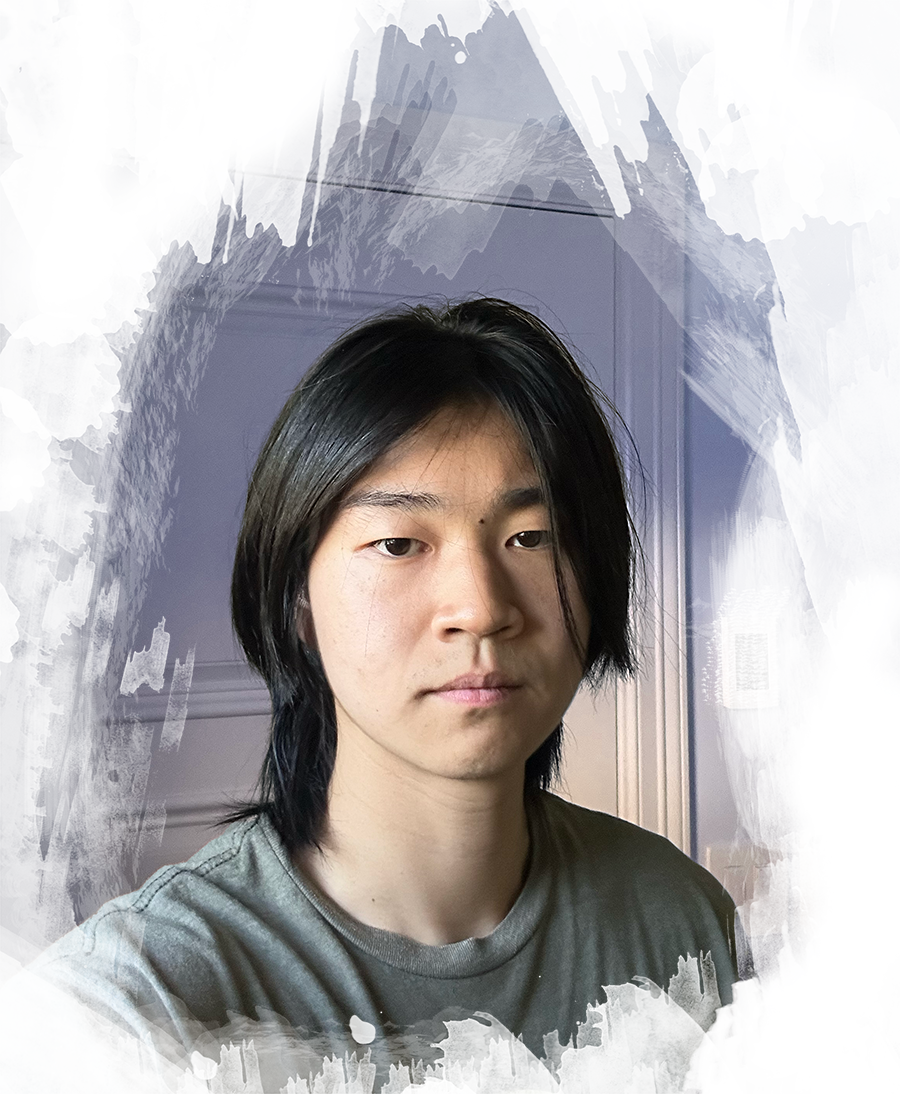
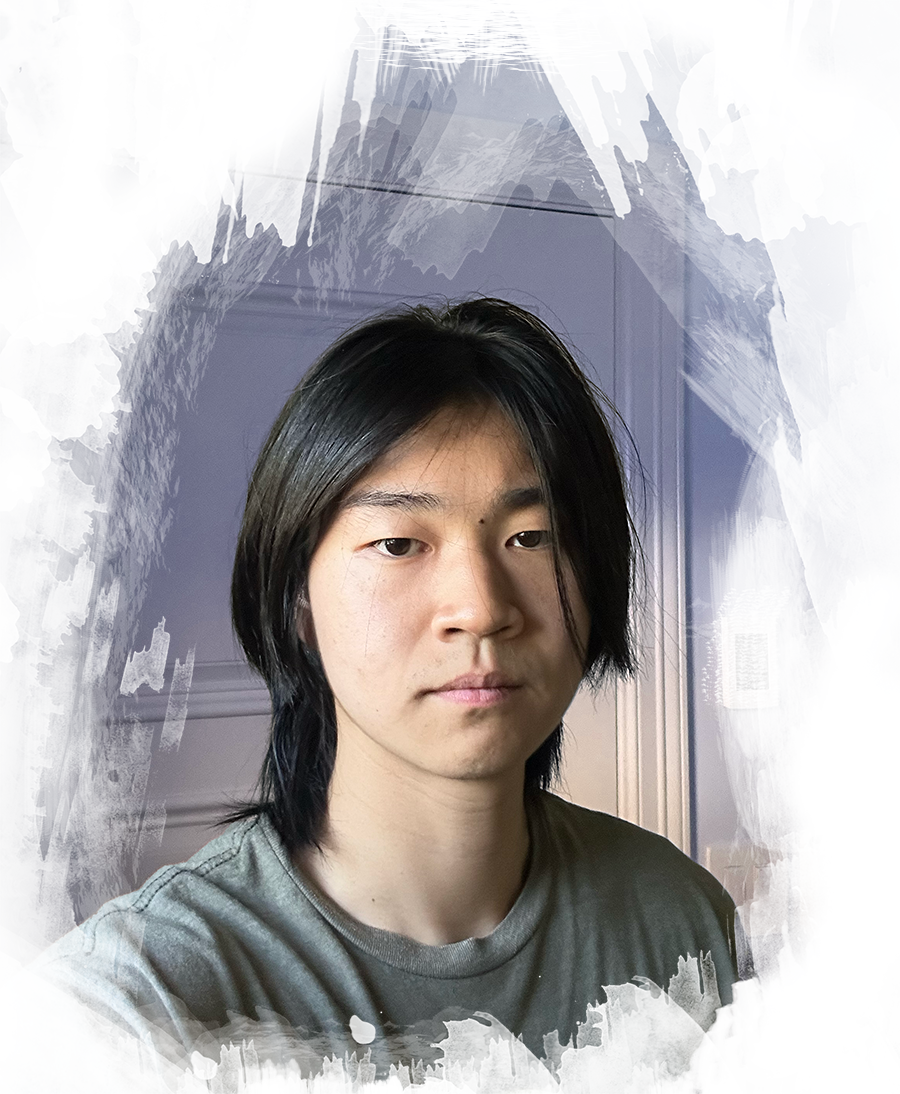
frame update

diff --git a/src/pages/FAQ.tsx b/src/pages/FAQ.tsx
@@ -4,17 +4,25 @@ const QA_ITEMS = [
     answer: 'Both EC ENGR C147a (Deep Learning) and its sequel, C147b (Deep Learning II). The hype is real, but good luck getting into it lol (SUBMIT AN ECR!!). COM SCI M146 is also solid. For a lesser known course, EC ENGR 133a (Applied Numerical Computing) with Vandenberghe is a cool, albeit tough mathy class. For this last one, it might just be me, but ART HIS 21 (Medieval Art) was more fun than expected.',
   },
   {
+    question: 'Coding Languages?',
+    answer: 'Python for most things, C++ for ICPC and technicals.',
+  },
+  {
     question: 'What do you draw with?',
     answer: 'Procreate to sketch and draw in mostly everything, and Photoshop for tuning colors and special effects. I do a lot of my practice with fineliners, a holdover from Drawabox.',
   },
   {
     question: 'Is anything AI generated?',
-    answer: 'If we\'re talking the stuff I drew, I have not used AI to create anything under Artworks. I also hand-made all the assets used on this website.',
+    answer: 'If we\'re talking the stuff I drew, I have not used AI to create anything under Artworks. I also hand-made all the assets used on this website in Illustrator.',
+  },
+  {
+    question: 'Why did you upload art pieces you\'re not proud of?',
+    answer: 'More than anything, to demonstrate that everybody misfires, and that it\'s not rare. It also shows my progression, which I\'m especially proud of. I wasn\'t born with any artistic talent (trust me), and even if I was, I couldn\'t have made my favorite pieces without the ones that I felt disappointed in.',
   }
   ,
   {
     question: 'Get a haircut.',
-    answer: 'Not a question. It happens when I feel like it.',
+    answer: 'Ok, not a question. It happens when I feel like it.',
   }
 ]
 
@@ -40,10 +48,10 @@ const pageStyle: React.CSSProperties = {
   width: '100%',
   height: '100%',
   display: 'flex',
-  alignItems: 'center',
+  alignItems: 'flex-start',
   justifyContent: 'center',
   overflow: 'auto',
-  padding: '48px 32px',
+  padding: '5vh 32px 48px',
 }
 
 const contentStyle: React.CSSProperties = {

diff --git a/src/pages/Digital.tsx b/src/pages/Digital.tsx
@@ -3,10 +3,11 @@ import ArtworkTimeline, { CreditHighlight as Hi, type TimelineEvent } from '../c
 const BASE = import.meta.env.BASE_URL
 const CREDITS = (
   <>
-    <Hi>Drawabox (https://drawabox.com):</Hi> Where I first learned to draw.{' '}
-    <Hi>Proko (www.proko.com):</Hi> Figure drawing and one-off tutorials and inspiration.{' '}
-    <Hi>Jeremy Fenske (https://www.artstation.com/jandrew):</Hi> Thanks for the brushes.{' '}
-    <Hi>FromSoftware (https://www.fromsoftware.jp):</Hi> One of my biggest sources of inspiration, and where some of my own characters originated. Finally, the friends I sent my drawings to.
+    <Hi>Drawabox (drawabox.com):</Hi> Where I first learned to draw.{' '}
+    <Hi>Proko (proko.com):</Hi> Figure drawing fundamentals, anatomy, and one-off tutorials.{' '}
+    <Hi>Jeremy Fenske (artstation.com/jandrew):</Hi> Thanks for the brushes good sir.{' '}
+    <Hi>FromSoftware (fromsoftware.jp):</Hi> One of my biggest sources of inspiration, and where some of my own characters originated.{' '}
+    <Hi>Lastly,</Hi> the friends I sent my drawings to.
   </>
 )
 
@@ -56,7 +57,7 @@ const EVENTS: TimelineEvent[] = [
     id: 'faithchar_color',
     date: 'February 2026',
     title: 'Faith',
-    description: 'Both this and the next drawing originated as custom characters from Elden Ring.',
+    description: '☆ First portrait that\'s not of myself.',
     imageSrc: `${BASE}images/digital/faithchar_color.webp`,
     imageAlt: 'Faith',
   },
@@ -106,7 +107,9 @@ const ASSETS = {
       src: `${BASE}images/common/frame.svg`,
       slice: 16,
       width: 16,
-      repeat: 'stretch' as const,
+      // 'repeat' tiles the edge art at native size instead of stretching it,
+      // so the accent lines keep their exact thickness on every piece.
+      repeat: 'repeat' as const,
     },
   },
 }

diff --git a/src/components/timeline/ArtworkTimeline.tsx b/src/components/timeline/ArtworkTimeline.tsx
@@ -28,11 +28,21 @@ export type TimelineBoxBorder = {
   slice: number | [number, number, number, number]
   /** On-screen thickness of the border. Defaults to `slice` (single-number form). */
   width?: number
-  /** How the straight edge slices fill the gap between corners. */
-  repeat?: 'stretch' | 'repeat' | 'round'
+  /**
+   * How the straight edge tile fills the gap between corners along its length
+   * (the cross-axis thickness is always fixed at `width`, never scaled):
+   *   - 'stretch': uniformly rescales the tile to fit — warps any pattern.
+   *   - 'repeat':  tiles the source at native size, clipping the last copy.
+   *   - 'round':   tiles at (near-)native size so a whole number always fits.
+   * Pass a tuple to control axes independently, per the CSS spec order:
+   * [top & bottom edges, left & right edges].
+   */
+  repeat?: BorderRepeatMode | [BorderRepeatMode, BorderRepeatMode]
   /** How far (px) the frame sits outside the image edge. Defaults to 0. */
   outset?: number
 }
+
+export type BorderRepeatMode = 'stretch' | 'repeat' | 'round'
 
 // Asset slots are grouped by type so each visual layer can be swapped for a
 // custom SVG later without touching layout logic. Any slot left undefined falls
@@ -646,7 +656,9 @@ const frameWrapStyle = (
       borderImageSource: `url(${border.src})`,
       borderImageSlice: sliceValue,
       borderImageWidth: `${width}px`,
-      borderImageRepeat: border.repeat ?? 'stretch',
+      borderImageRepeat: Array.isArray(border.repeat)
+        ? border.repeat.join(' ')
+        : border.repeat ?? 'stretch',
       borderImageOutset: `${(border.outset ?? 0) * scale}px`,
     }
   }

diff --git a/src/pages/Home.tsx b/src/pages/Home.tsx
@@ -66,10 +66,8 @@ export default function Home() {
   I'm currently a rising junior at UCLA studying Computer Science, with a focus on machine learning and NLP. I am also a Kleiner Perkins Engineering Fellow and an officer for ACM ICPC at UCLA.
   <br />
   <br />
-    Outside of my studies and coding up weird things (see Projects), I cook, gym, and draw. Do check out the Artwork page for my creations.
-    <br />
-    <br />
-    They also call me Jchen, JCProject, noobstin, a menace, and "dude this guy".
+    Outside of my studies, research projects, and hackathon things (see Projects), I cook, gym, and draw. Do stop by the Artwork page for my creations.
+    
     <br />
     <br />
     ! More stuff is coming at a later date, including my whiteboard drawings, and maybe another self portrait !
